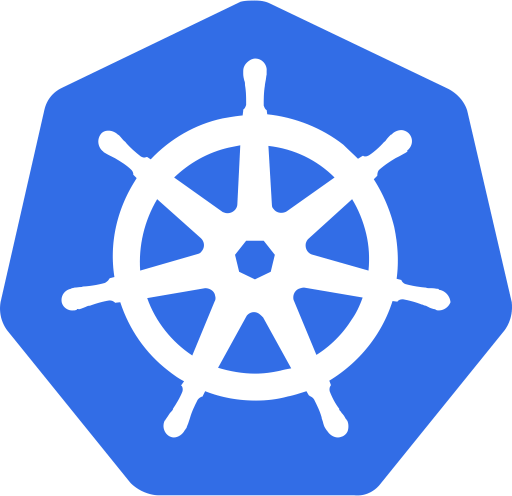
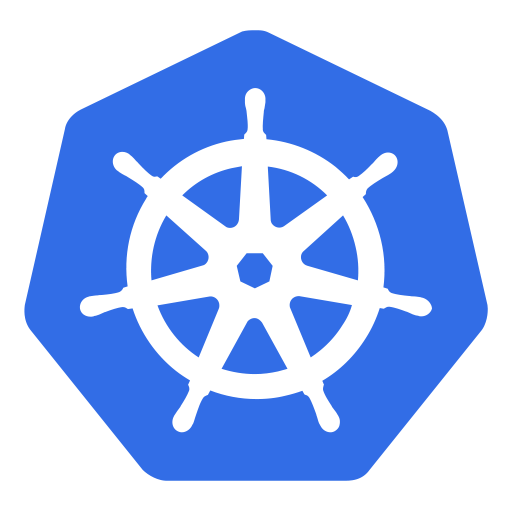
fix title png

diff --git a/index.html b/index.html
@@ -6,7 +6,7 @@
   <meta name="description" content="">
   <meta name="author" content="">
   <title>Deployment images dashboard</title>
-  <link rel="icon" type="image/png" href="/images/k8s-icon.png" />
+  <link rel="icon" type="images/png" href="https://kubernetes.io/images/favicon.png" />
   <link href="//stackpath.bootstrapcdn.com/bootstrap/4.1.0/css/bootstrap.min.css" rel="stylesheet">
   <style>
     body {
@@ -17,11 +17,11 @@
         padding-top: 56px;
       }
     }
-    .pod-link {
+    .deployment {
         color: inherit;
         font-weight: bold;
     }
-    .pod-link:hover {
+    .deployment:hover {
         color: inherit;
         text-decoration: none;
     }
@@ -34,18 +34,6 @@
     <button class="navbar-toggler" type="button" data-toggle="collapse" data-target="#navbarResponsive" aria-controls="navbarResponsive" aria-expanded="false" aria-label="Toggle navigation">
       <span class="navbar-toggler-icon"></span>
     </button>
-    <!-- <div class="collapse navbar-collapse" id="navbarResponsive">
-      <ul class="navbar-nav ml-auto">
-        <li class="nav-item active">
-          <a class="nav-link" href="/">Home
-            <span class="sr-only">(current)</span>
-          </a>
-        </li>
-        <li class="nav-item">
-          <a class="nav-link" href="nodes">Nodes</a>
-        </li>
-      </ul>
-    </div> -->
   </div>
 </nav>
 
@@ -62,7 +50,7 @@
             <h3>{{.Namespace}}</h3>
             <hr/>
             {{range .Deployments}}
-            <a href="/" class="pod-link">{{.Name}}</a> <br/>
+            <span class="deployment">{{.Name}}</span> <br/>
                 <span class="badge badge-dark">Image:</span>
                 {{.Image}}
                 <br/>
